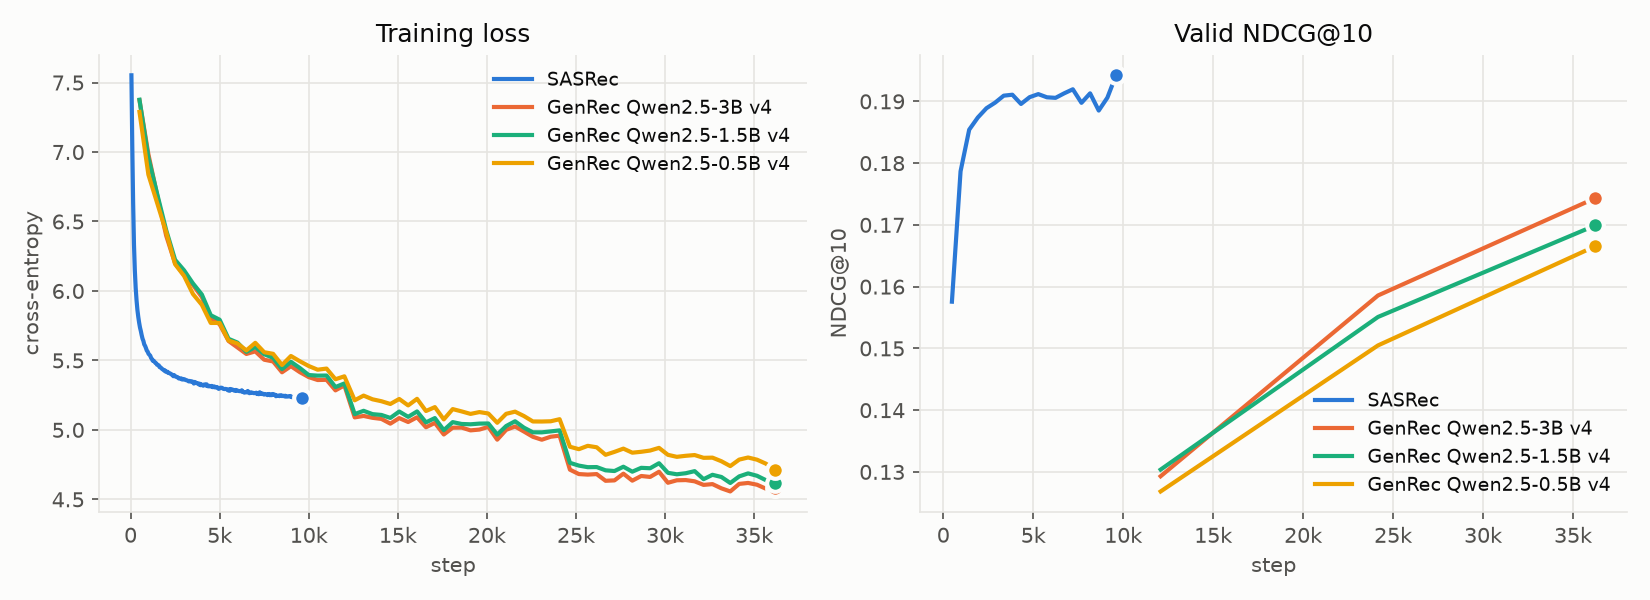
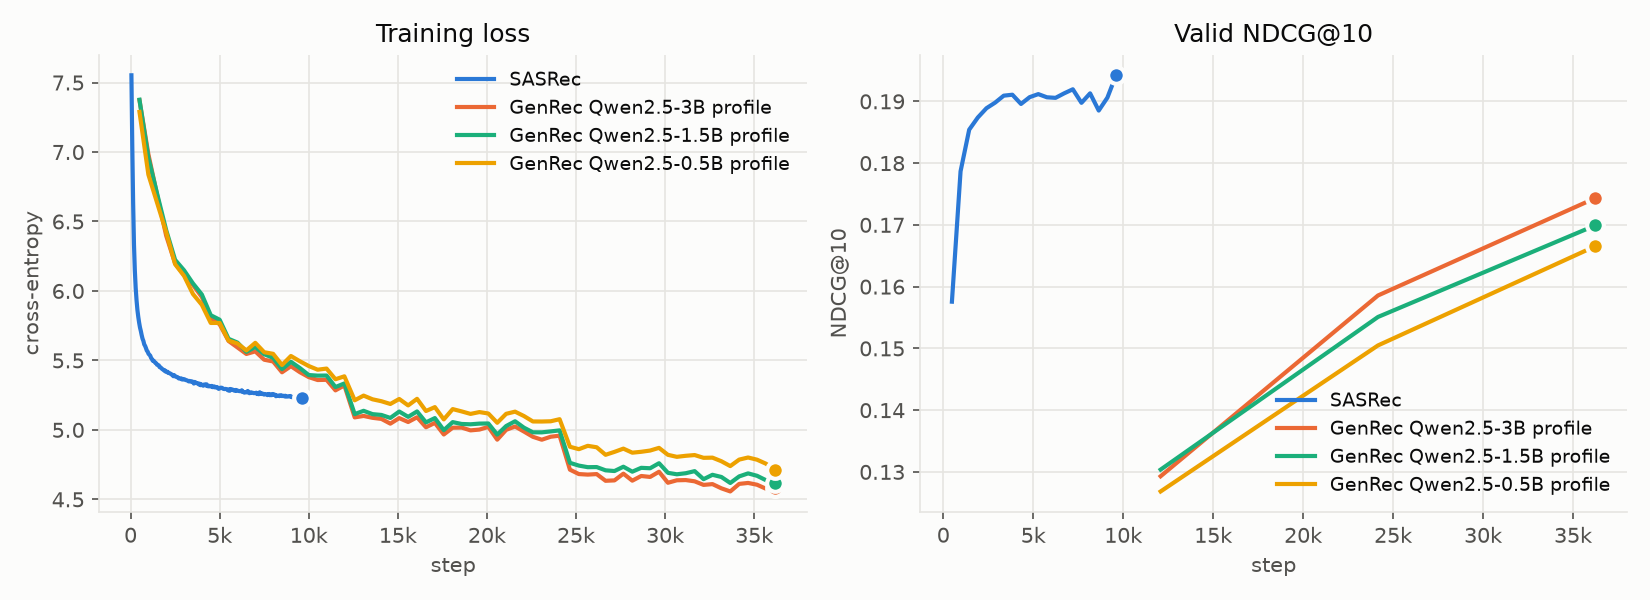
Add README; readable prompt names; plan.md holds remaining work only

Changed region(s): [[0.7727, 0.66, 0.9891, 0.84], [0.2782, 0.12, 0.4945, 0.3]]

diff --git a/genrec.py b/genrec.py
@@ -15,19 +15,20 @@ from transformers import AutoModel, AutoModelForCausalLM, AutoTokenizer
 from common import add_synopses, evaluate, fmt, load, log_history, machine, pick_device, save_metrics, start_run
 
 
-SYNOPSIS_LAST = 5  # v5: synopsis only for the most recent movies (token budget)
+PROMPTS = {"rating": "title + rating", "genres": "+ genres", "profile": "genres + user profile",
+           "synopsis": "genres + synopsis for the last 5 movies"}
+SYNOPSIS_LAST = 5  # synopsis prompt: only for the most recent movies (token budget)
 
 
-def verbalize(d, items, ratings, n, prompt="v2", user=None):
-    # v2: title + rating; v3: + genres; v4: v3 + user profile; v5: v3 + first-sentence synopsis for the last 5 movies
+def verbalize(d, items, ratings, n, prompt="rating", user=None):
     items, ratings = items[-n:], ratings[-n:]
 
     def movie(k, i, r):
-        genres = f" [{d.movies.genres[i]}]" if prompt in ("v3", "v4", "v5") else ""
-        syn = d.movies.synopsis[i] if prompt == "v5" and k >= len(items) - SYNOPSIS_LAST else ""
+        genres = f" [{d.movies.genres[i]}]" if prompt != "rating" else ""
+        syn = d.movies.synopsis[i] if prompt == "synopsis" and k >= len(items) - SYNOPSIS_LAST else ""
         return f"{d.movies.title[i]}{genres} {r}" + (f" ({syn})" if syn else "")
     movies = "; ".join(movie(k, i, r) for k, (i, r) in enumerate(zip(items, ratings)))
-    user_line = f"User: {d.profiles[user]}\n" if prompt == "v4" else ""
+    user_line = f"User: {d.profiles[user]}\n" if prompt == "profile" else ""
     return f"{user_line}Watched (rating 1-5): {movies}\nNext:"
 
 
@@ -115,7 +116,7 @@ def train(args):
     device = pick_device(args.device)
     dtype = torch.bfloat16 if device == "cuda" else torch.float32
     d = load()
-    if args.prompt == "v5":
+    if args.prompt == "synopsis":
         add_synopses(d)
     if args.users:
         d.seqs, d.ratings = d.seqs[:args.users], d.ratings[:args.users]
@@ -196,8 +197,8 @@ if __name__ == "__main__":
     p.add_argument("--device", choices=["cpu", "mps", "cuda"])
     p.add_argument("--users", type=int, help="subset for quick debugging")
     p.add_argument("--history", type=int, default=20, help="movies in prompt")
-    p.add_argument("--prompt", choices=["v2", "v3", "v4", "v5"], default="v2",
-                   help="v2: title+rating, v3: +genres, v4: v3 + user profile, v5: v3 + synopsis for last 5 movies")
+    p.add_argument("--prompt", choices=list(PROMPTS), default="rating",
+                   help=", ".join(f"{k}: {v}" for k, v in PROMPTS.items()))
     p.add_argument("--samples_per_user", type=int, default=16)
     p.add_argument("--epochs", type=int, default=1)
     p.add_argument("--batch_size", type=int, default=8)

diff --git a/plot.py b/plot.py
@@ -18,7 +18,8 @@ from common import RUNS
 
 OUT = Path(__file__).parent / "docs" / "figures"
 SERIES = ["#2a78d6", "#eb6834", "#1baf7a", "#eda100", "#e87ba4"]  # validated categorical order
-LINE_COLOR = {"v3": 1, "v4": 2, "v5": 3}  # color follows the prompt, never its rank
+LINE_COLOR = {"genres": 1, "profile": 2, "synopsis": 3}  # color follows the prompt, never its rank
+OLD_PROMPT = {"v2": "rating", "v3": "genres", "v4": "profile", "v5": "synopsis"}  # runs made before the rename
 SURFACE, INK, INK2, GRID = "#fcfcfb", "#0b0b0b", "#52514e", "#e6e5e1"
 
 plt.rcParams.update({
@@ -39,10 +40,15 @@ def read_run(path):
     return info, hist
 
 
+def prompt_of(args):
+    p = args.get("prompt", "rating")
+    return OLD_PROMPT.get(p, p)
+
+
 def label(path, info):
     model = path.name.split("_")[0]
     if model == "genrec" and info:
-        prompt = info["args"].get("prompt", "v2")
+        prompt = prompt_of(info["args"])
         return f"GenRec {info['args']['backbone'].split('/')[-1]} {prompt}"
     return {"sasrec": "SASRec"}.get(model, model)
 
@@ -117,7 +123,7 @@ def plot_scaling(runs):
         a = info["args"]
         size = re.search(r"(\d+(?:\.\d+)?)B", a.get("backbone", "")) if p.name.startswith("genrec") else None
         if size:
-            line = a.get("prompt", "v2")
+            line = prompt_of(a)
             key, ep = (line, float(size.group(1))), a.get("epochs", 1)
             rank = (-abs(ep - SCALING_EPOCHS), valid_score(p, info))  # closest to SCALING_EPOCHS, then best valid
             if key not in cells or rank > cells[key][0]:

diff --git a/docs/plan.md b/docs/plan.md
@@ -1,145 +1,15 @@
-# GenRec on MovieLens — Plan
+# Plan
 
-Paper: [GenRec: An LLM-Backed Recommendation Ranker at Netflix](https://arxiv.org/html/2608.10257v2)
+Remaining work. Overview → [README](../README.md) · results → [results.md](results.md)
 
-## Goal
-Reproduce GenRec as described in the paper on public data (MovieLens-1M) and check whether it beats a tuned standard baseline (SASRec). Paper-faithful by default; anything not in the paper is opt-in and labeled.
-
-| Component | Status |
-|---|---|
-| Verbalized history → LLM → pooled `h` → `h·e_i`, CE over full catalog | ✅ faithful |
-| Context engineering (prompt versions, history length) | ✅ faithful |
-| LM loss `β·L_language` on the target title | ✅ faithful (+2.9% at 0.5B, within noise; kept) |
-| Reward weighting (here: rating) | ✅ faithful, tested (no gain; not used) |
-| Model-size scaling | ✅ faithful |
-| Warmup, grad clip, LayerNorm on `h`, LoRA | implementation details the paper doesn't specify |
-| Phase 1 (domain pre-training on Netflix logs) | ❌ not reproducible (no data); Qwen2.5 used as-is |
-
-## Faithful recipe (final)
-```
-prompt v4 (user profile + last 20 movies: title [genres] rating) → Qwen2.5 + LoRA
-→ h = LayerNorm(last-token hidden state) → score = h · E → CE over all movies
-L = 0.9·L_rank + 0.1·L_lm(target title), 3 epochs, warmup → linear decay, grad clip 1.0
-```
-| Size | LR (LoRA) | Warmup | Notes |
-|---|---|---|---|
-| 0.5B | 2e-4 | 5% | |
-| 1.5B / 3B | 1e-4 | 10% | `--grad_ckpt` on 16GB |
-| 7B | 5e-5 | 10% | A100 80GB, `--grad_ckpt` |
-
-## Data
-- MovieLens-1M (auto-download from GroupLens); users with ≥5 ratings, sorted by time
-- Split: leave-one-out (last = test, 2nd last = valid)
-- Prompt versions (`--prompt`):
-  ```
-  v2: Watched (rating 1-5): Toy Story (1995) 5; Heat (1995) 3; ...\nNext:          (~270 tokens)
-  v3: Watched (rating 1-5): Toy Story (1995) [Animation|Children's|Comedy] 5; ...  (~420 tokens)
-  v4: "User: male, age 25-34, programmer\n" + v3  (~435 tokens)
-  v5: v3 + first synopsis sentence (TMDb, via Kaggle "The Movies Dataset") for the last 5 movies  (~550 tokens)
-  ```
-
-## Eval
-- MRR, HR@10, NDCG@10 over the full catalog (seen items masked)
-- Baselines: Popularity, SASRec (tuned)
-- Run selection by valid NDCG@10 only; test reported once
-
-## Environment
-- `--device {cpu,mps,cuda}`; `--grad_ckpt` for low memory (~30% slower)
-- Machines: **Cloud** = RTX 4090 ($0.74/h) or A100 80GB (~$1.6/h) · **Local** = RTX 4060 Ti 16GB ($0) · **M1** = Apple M1 (MPS)
-- 3B is Qwen Research License (non-commercial); 0.5B / 1.5B / 7B are Apache 2.0
-
-## Files
-```
-common.py  # data + split, metrics, Popularity, run logging
-sasrec.py  # SASRec: model + train
-genrec.py  # GenRec: model + train (--prompt, --lm_weight, --rating_weight, --resume)
-plot.py    # runs/ → docs/figures/*.png
-docs/      # plan.md, results.md
-runs/      # (gitignored) <model>_<time>/log.txt, metrics.json, history.csv, *.pt
-```
-
-## Steps
-| # | Step | Status |
-|---|---|---|
-| 1 | Data, split, verbalize | ✅ |
-| 2 | Baselines: Popularity, SASRec (tuned) | ✅ SASRec 0.1820 |
-| 3 | GenRec pipeline + training stability (warmup, clip) | ✅ |
-| 4 | Development ablations: prompts, LM loss, rating weights, epochs | ✅ (history length ⏳ #29) |
-| 5 | Full-recipe grid (★): v3/v4/v5 × 0.5B/1.5B/3B + 7B v4 | 🔄 9/10 done (0.5B–3B complete); 7B pending |
-| 6 | README: results + reproduce | ⬜ |
-
-## Runs
-| # | Run | Status | Machine | Time | Cost | Test NDCG@10 |
-|---|---|---|---|---|---|---|
-| 1 | SASRec (untuned: d=64, 100 ep) | ✅ | M1 | 16 min | $0 | 0.1681 |
-| 2 | 0.5B v2, 1 ep | ✅ | Cloud 4090 | 26 min | $0.45 | 0.0945 |
-| 3 | 0.5B v2, 1 ep, + warmup/clip | ✅ | Cloud 4090 | 13 min | $0.25 | 0.1295 |
-| 4 | 0.5B v2, 3 ep, lr 2e-4 | ✅ | Cloud 4090 | 38 min | $0.55 | 0.1441 |
-| 5 | 1.5B v2, 3 ep, lr 1e-4 | ✅ | Cloud 4090 | 99 min | $1.40 | 0.1486 |
-| 6 | 0.5B v2, 3 ep, lr 1e-4 | ✅ | Cloud 4090 | 74 min | $1.00 | 0.1386 |
-| 7 | 0.5B v3, 3 ep, lr 2e-4 | ✅ | Cloud 4090 | 78 min | $1.30 | 0.1500 |
-| 8 | 1.5B v3, 3 ep, lr 1e-4 | ✅ | Cloud 4090 | 3.4 h | $2.50 (+$0.85 failed pod) | 0.1546 |
-| 9 | 7B v3, 2 ep, lr 5e-5 | ✅ | Cloud A100 80GB | 6.1 h | $9.60 (+$0.65 crashed start) | 0.1569 |
-| 10 | 0.5B v3, seed 43 (noise check) | ✅ | Local | 3.4 h | $0 | 0.1558 |
-| 11 | 0.5B v3, rating-weighted loss | ✅ no gain | Local | 4.0 h | $0 | 0.1473 |
-| 12 | 1.5B v3, 5 ep | ✅ | Local | 19 h | $0 | 0.1627 |
-| 13 | 0.5B v5 | ✅ | Local | 5.6 h | $0 | 0.1520 |
-| 14 | 0.5B v4 | ✅ | Local | 4.0 h | $0 | 0.1530 |
-| 15 | 1.5B v4 | ✅ | Local | 11.8 h | $0 | 0.1581 |
-| 16 | 1.5B v5 | ✅ no gain | Local | 16.8 h | $0 | 0.1552 |
-| 17 | SASRec tuning: d × dropout × heads (5 runs, 200 ep) | ✅ baseline | M1 | 4 h | $0 | **0.1820** |
-| 18 | 1.5B v4, 8 ep | ✅ no gain vs 3 ep | Local | 31.8 h | $0 | 0.1558 |
-| 19 | ★ 0.5B v4 + LM loss | ✅ (+2.9% vs #14) | Local | 4.3 h | $0 | 0.1575 |
-| 20 | ★ 3B v4 + LM loss | ✅ | Local | 24.9 h | $0 | 0.1615 |
-| 21 | ★ 1.5B v4 + LM loss | ✅ | Local | 12.3 h | $0 | 0.1581 |
-| 22 | ★ **Final: 7B v4 + LM loss** | ⬜ ready | Cloud A100 80GB | ~9–10 h | ~$15–16 | – |
-| 23 | ★ 0.5B v3 + LM loss | ✅ | Local | 3.6 h | $0 | 0.1535 |
-| 24 | ★ 0.5B v5 + LM loss | ✅ | Local | 6.2 h | $0 | 0.1529 |
-| 25 | ★ 1.5B v3 + LM loss | ✅ | Local | 11.8 h | $0 | 0.1582 |
-| 26 | ★ 1.5B v5 + LM loss | ✅ | Local | 17.1 h | $0 | 0.1569 |
-| 27 | ★ 3B v3 + LM loss | ✅ | Local | 24.0 h | $0 | 0.1595 |
-| 28 | ★ 3B v5 + LM loss | ✅ | Local | 33.8 h | $0 | 0.1580 |
-| 29 | 0.5B v4 + LM loss, history 50 (ablation vs #19) | 🔄 running | Local | ~11 h | $0 | – |
-
-★ = full faithful recipe (LM loss, 3 epochs; prompt v3/v4/v5) → reported in results.md. All other GenRec runs are development runs/ablations, kept here only.
-
-### SASRec tuning (#17; M1, 200 ep, selected by valid)
-| d | dropout | heads | Valid NDCG@10 | Test NDCG@10 |
+## Remaining
+| Task | Status | Machine | Time | Cost |
 |---|---|---|---|---|
-| 64 | 0.2 | 1 | 0.1772 | 0.1709 |
-| 64 | 0.5 | 1 | 0.1452 | 0.1394 |
-| 128 | 0.2 | 1 | 0.1938 | 0.1828 |
-| 128 | 0.5 | 1 | 0.1605 | 0.1546 |
-| **128** | **0.2** | **2** | **0.1942** | **0.1820** ← baseline |
-
-### Full-recipe grid ★ (test NDCG@10) — reported in results.md
-| Size \ prompt | v3 | v4 | v5 |
-|---|---|---|---|
-| 0.5B | 0.1535 (#23) | 0.1575 (#19) | 0.1529 (#24) |
-| 1.5B | 0.1582 (#25) | 0.1581 (#21) | 0.1569 (#26) |
-| 3B | 0.1595 (#27) | 0.1615 (#20) | 0.1580 (#28) |
-| 7B | – | #22 | – |
-
-### Development grid (ranking-only, no LM loss; test NDCG@10, 3 ep)
-| Size \ prompt | v2 | v3 | v4 | v5 |
-|---|---|---|---|---|
-| 0.5B | 0.1441 (#4) | 0.1500 (#7), seed 43: 0.1558 (#10) | 0.1530 (#14) | 0.1520 (#13) |
-| 1.5B | 0.1486 (#5) | 0.1546 (#8) | 0.1581 (#15) | 0.1552 (#16) |
-| 7B | – | 0.1569 (#9, 2 ep) | – | – |
-
-### Development findings (not in results.md)
-- **Stability:** warmup + grad clip required (without them training collapsed to popularity, #3 vs #2); LoRA LR must drop with size (1.5B at 2e-4 stalled)
-- **Noise:** two seeds of 0.5B v3 → 0.1500 / 0.1558 (±2%); differences under ~4% are not significant
-- **Prompts (ranking-only):** v2 → v3 +4% at both sizes; v4 0 / +2%; v5 no gain at +30–60% compute
-- **Size (ranking-only):** 0.5B → 1.5B → 7B flat on test (0.153–0.158)
-- **LM loss:** 0.5B v4 0.1530 → 0.1575 (+2.9%, within noise) → adopted as part of the faithful recipe
-- **Reward (rating) weighting:** 0.1473, no gain (metric counts the next rating regardless of value) → not used
-- **Epochs:** 3 is enough; 5 ep test 0.1627 but valid flat; 8 ep valid 0.1700 → 0.1661 (memorization) → 3 epochs
+| **Final: 7B profile + LM loss** (full recipe) | ⬜ ready | Cloud A100 80GB | ~9–10 h | ~$15–16 |
+| 0.5B profile + LM loss, history 50 (ablation) | 🔄 running | Local | ~11 h | $0 |
 
 ## Later: beyond the faithful recipe (to discuss)
 Not in the paper; only after the faithful results are final, and always labeled.
 - Multi-position loss (grade every movie in a prompt; ~16–20× more training signal per compute)
 - Item embeddings initialized from text (title / genres / synopsis)
 - ML-25M (more items, long tail, global time split) as a second benchmark
-
-Results → [results.md](results.md)

diff --git a/docs/results.md b/docs/results.md
@@ -2,10 +2,10 @@
 
 MovieLens-1M · leave-one-out · test split · full catalog (3,706 items, seen items masked)
 
-All GenRec numbers use the **full faithful recipe**: LM loss β=0.1, 3 epochs, per-size LR (see Settings). Rows/columns vary only the model size and the prompt version (context engineering). Development runs and ablations are in [plan.md](plan.md).
+All GenRec numbers use the **full faithful recipe**: LM loss β=0.1, 3 epochs, per-size LR (see Settings). Rows/columns vary only the model size and the prompt version (context engineering).
 
 ## Prompt × size (test NDCG@10)
-| Size \ prompt | v3 (+genres) | v4 (+user profile) | v5 (+synopsis) |
+| Size \ prompt | genres | profile | synopsis |
 |---|---|---|---|
 | 0.5B | 0.1535 | 0.1575 | 0.1529 |
 | 1.5B | 0.1582 | 0.1581 | 0.1569 |
@@ -15,19 +15,19 @@ All GenRec numbers use the **full faithful recipe**: LM loss β=0.1, 3 epochs, p
 Baselines: **SASRec (tuned) 0.1820**, Popularity 0.0180.
 
 ## All metrics
-| Model | MRR | HR@10 | NDCG@10 | Δ NDCG@10 vs SASRec | Train time | Machine | Cost |
-|---|---|---|---|---|---|---|---|
-| Popularity | 0.0199 | 0.0369 | 0.0180 | −90% | – | – | – |
-| **SASRec (tuned)** | **0.1547** | **0.3209** | **0.1820** | – | 56.2 min | Apple M1 (MPS) | $0 |
-| GenRec 0.5B v3 | 0.1330 | 0.2677 | 0.1535 | −16% | 217.1 min | RTX 4060 Ti (Local) | $0 |
-| GenRec 0.5B v4 | 0.1353 | 0.2765 | 0.1575 | −13% | 247.1 min | RTX 4060 Ti (Local) | $0 |
-| GenRec 0.5B v5 | 0.1321 | 0.2675 | 0.1529 | −16% | 374.2 min | RTX 4060 Ti (Local) | $0 |
-| GenRec 1.5B v3 | 0.1371 | 0.2742 | 0.1582 | −13% | 708.0 min | RTX 4060 Ti (Local) | $0 |
-| GenRec 1.5B v4 | 0.1380 | 0.2714 | 0.1581 | −13% | 737.1 min | RTX 4060 Ti (Local) | $0 |
-| GenRec 1.5B v5 | 0.1359 | 0.2719 | 0.1569 | −14% | 1028.5 min | RTX 4060 Ti (Local) | $0 |
-| GenRec 3B v3 | 0.1396 | 0.2722 | 0.1595 | −12% | 1438.3 min | RTX 4060 Ti (Local) | $0 |
-| GenRec 3B v4 | 0.1404 | 0.2780 | 0.1615 | −11% | 1494.7 min | RTX 4060 Ti (Local) | $0 |
-| GenRec 3B v5 | 0.1377 | 0.2720 | 0.1580 | −13% | 2029.7 min | RTX 4060 Ti (Local) | $0 |
+| Model | MRR | HR@10 | NDCG@10 | Δ NDCG@10 vs SASRec | Train time | Machine |
+|---|---|---|---|---|---|---|
+| Popularity | 0.0199 | 0.0369 | 0.0180 | −90% | – | – |
+| **SASRec (tuned)** | **0.1547** | **0.3209** | **0.1820** | – | 56.2 min | Apple M1 (MPS) |
+| GenRec 0.5B genres | 0.1330 | 0.2677 | 0.1535 | −16% | 217.1 min | RTX 4060 Ti (Local) |
+| GenRec 0.5B profile | 0.1353 | 0.2765 | 0.1575 | −13% | 247.1 min | RTX 4060 Ti (Local) |
+| GenRec 0.5B synopsis | 0.1321 | 0.2675 | 0.1529 | −16% | 374.2 min | RTX 4060 Ti (Local) |
+| GenRec 1.5B genres | 0.1371 | 0.2742 | 0.1582 | −13% | 708.0 min | RTX 4060 Ti (Local) |
+| GenRec 1.5B profile | 0.1380 | 0.2714 | 0.1581 | −13% | 737.1 min | RTX 4060 Ti (Local) |
+| GenRec 1.5B synopsis | 0.1359 | 0.2719 | 0.1569 | −14% | 1028.5 min | RTX 4060 Ti (Local) |
+| GenRec 3B genres | 0.1396 | 0.2722 | 0.1595 | −12% | 1438.3 min | RTX 4060 Ti (Local) |
+| GenRec 3B profile | 0.1404 | 0.2780 | 0.1615 | −11% | 1494.7 min | RTX 4060 Ti (Local) |
+| GenRec 3B synopsis | 0.1377 | 0.2720 | 0.1580 | −13% | 2029.7 min | RTX 4060 Ti (Local) |
 
 ## Figures
 Generated by `uv run python plot.py` from `runs/` (full-recipe runs only).
@@ -41,14 +41,14 @@ Generated by `uv run python plot.py` from `runs/` (full-recipe runs only).
 ## Settings
 | Item | Config |
 |---|---|
-| Prompts | v3: last 20 movies as `title [genres] rating`; v4: v3 + `User: gender, age, occupation`; v5: v3 + first synopsis sentence for the last 5 movies |
+| Prompts | genres: last 20 movies as `title [genres] rating`; profile: genres + `User: gender, age, occupation`; synopsis: genres + first synopsis sentence for the last 5 movies |
 | GenRec | Qwen2.5 + LoRA r=16 (q,k,v,o); last-token h → LayerNorm → h·E (random-init E); L = 0.9·CE over full catalog + 0.1·LM(target title); 16 samples/user/epoch; batch 8; 3 epochs; LoRA lr 2e-4 (0.5B) / 1e-4 (1.5B, 3B) / 5e-5 (7B), head lr 1e-3; 5% (0.5B) / 10% warmup → linear decay; grad clip 1.0; bf16 |
 | SASRec | d=128, 2 layers, 2 heads, max_len=200, dropout=0.2, lr=1e-3, batch=128, 200 epochs; chosen from a d × dropout × heads grid by valid NDCG@10 |
 | Selection | valid NDCG@10 only; test reported once |
 
 ## Notes
-- 0.5B–3B grid: size +2–4% (0.5B → 3B); prompts within ~3% (v4 ≥ v3 > v5); every cell 11–16% below SASRec
+- 0.5B–3B grid: size +2–4% (0.5B → 3B); prompts within ~3% (profile ≥ genres > synopsis); every cell 11–16% below SASRec
 - Backbone choice is ours: the paper uses an internal ~1B–10B LLM with Netflix-specific pretraining (Phase 1); no equivalent here
 - Run-to-run noise is about ±2% (two seeds, ranking-only 0.5B); differences under ~4% are not significant
-- Train time includes periodic valid eval, excludes final test eval; Cloud cost = pod time ($0.74/h RTX 4090, $1.59/h A100)
+- Train time includes periodic valid eval, excludes final test eval
 - Timestamps are noisy: 52.9% of consecutive ratings share a timestamp → low ceiling for next-item metrics

diff --git a/README.md b/README.md
@@ -1,0 +1,91 @@
+# GenRec on MovieLens
+
+A public-data reproduction of [GenRec: An LLM-Backed Recommendation Ranker at Netflix](https://arxiv.org/html/2608.10257v2) on MovieLens-1M, compared against a tuned SASRec.
+
+**Question:** does the paper's recipe beat a standard sequential recommender on the same data?
+**Answer so far:** no. The best GenRec (Qwen2.5-3B, `profile` prompt) reaches test NDCG@10 **0.1615**, 11% below SASRec's **0.1820**. A 7B run is pending.
+
+| Size \ prompt | genres | profile | synopsis |
+|---|---|---|---|
+| 0.5B | 0.1535 | 0.1575 | 0.1529 |
+| 1.5B | 0.1582 | 0.1581 | 0.1569 |
+| 3B | 0.1595 | **0.1615** | 0.1580 |
+
+Test NDCG@10, full faithful recipe. SASRec (tuned) 0.1820 · Popularity 0.0180. All metrics, training curves and settings: [docs/results.md](docs/results.md).
+
+![Scaling](docs/figures/scaling.png)
+
+## Method
+```
+verbalized history → Qwen2.5 + LoRA → h = LayerNorm(last-token hidden state)
+→ score = h · E (one learned vector per movie) → cross-entropy over all 3,706 movies
+L = 0.9·L_rank + 0.1·L_lm(target title)
+```
+
+| Paper component | Here |
+|---|---|
+| Verbalized history → LLM → pooled `h` → `h·e_i`, CE over the full catalog | ✅ |
+| Context engineering (prompt versions, history length) | ✅ |
+| LM loss `β·L_language` on the target title | ✅ β = 0.1 |
+| Reward weighting | ✅ tested with ratings (no gain; off) |
+| Model-size scaling | ✅ 0.5B → 3B (7B pending) |
+| Phase 1 (domain pre-training on Netflix logs) | ❌ no public equivalent; Qwen2.5 used as-is |
+| Warmup, grad clip, LayerNorm on `h`, LoRA r=16 | not specified in the paper; ours |
+
+## Prompts
+The history is the user's last 20 movies, oldest first. `--prompt` picks what each prompt contains:
+
+| `--prompt` | Adds | ~Tokens | In the results grid |
+|---|---|---|---|
+| `rating` | title + the user's rating | 270 | – (early runs only) |
+| `genres` | + genres per movie | 420 | ✅ |
+| `profile` | `genres` + a user line (gender, age, occupation) | 435 | ✅ best |
+| `synopsis` | `genres` + the first synopsis sentence (TMDb) for the last 5 movies | 550 | ✅ |
+
+```
+rating:   Watched (rating 1-5): Toy Story (1995) 5; Heat (1995) 3; ...\nNext:
+genres:   Watched (rating 1-5): Toy Story (1995) [Animation|Children's|Comedy] 5; Heat (1995) [Action|Crime|Thriller] 3; ...\nNext:
+profile:  User: male, age 25-34, programmer\nWatched (rating 1-5): Toy Story (1995) [Animation|Children's|Comedy] 5; ...\nNext:
+synopsis: Watched (rating 1-5): ...; Heat (1995) [Action|Crime|Thriller] 3 (Obsessive master thief, Neil McCauley leads a top-notch crew ...); ...\nNext:
+```
+
+## Data and evaluation
+- MovieLens-1M (downloaded automatically from GroupLens); users with ≥5 ratings, ordered by time
+- Leave-one-out split: last movie = test, second last = valid
+- MRR, HR@10, NDCG@10 over the full catalog, seen movies masked
+- Runs are selected by valid NDCG@10 only; test is reported once
+- `synopsis` needs synopses from Kaggle "The Movies Dataset" (the error message prints the download commands)
+
+## Reproduce
+```bash
+uv sync
+uv run python common.py                                    # data + Popularity
+uv run python sasrec.py --dim 128 --heads 2 --epochs 200 --eval_every 10
+uv run python genrec.py --prompt profile --epochs 3 --lm_weight 0.1   # 0.5B
+uv run python genrec.py --backbone Qwen/Qwen2.5-3B --prompt profile --epochs 3 --lm_weight 0.1 \
+    --lr 1e-4 --warmup 0.1 --grad_ckpt                                 # 1.5B / 3B
+uv run python plot.py                                      # runs/ → docs/figures/
+```
+- `--device {cpu,mps,cuda}` (auto by default); `--grad_ckpt` trades ~30% speed for memory
+- Up to 3B fits a 16GB GPU with `--grad_ckpt`; 7B needs an 80GB GPU
+- Each run writes `runs/<model>_<time>/` (log, metrics, history, checkpoints); `--resume` continues from a checkpoint
+
+| Size | LoRA LR | Warmup | 3 epochs on an RTX 4060 Ti 16GB |
+|---|---|---|---|
+| 0.5B | 2e-4 | 5% | ~4 h |
+| 1.5B | 1e-4 | 10% | ~12 h |
+| 3B | 1e-4 | 10% | ~25 h |
+| 7B | 5e-5 | 10% | – (A100 80GB, ~9–10 h) |
+
+## Files
+```
+common.py  # data, split, metrics, Popularity, run logging
+sasrec.py  # SASRec baseline
+genrec.py  # GenRec model + training
+plot.py    # figures
+docs/      # results.md, plan.md (remaining work)
+```
+
+## Notes
+- Run-to-run noise is about ±2%; differences under ~4% are not significant
+- Qwen2.5-3B is under the Qwen Research License (non-commercial); 0.5B / 1.5B / 7B are Apache 2.0
